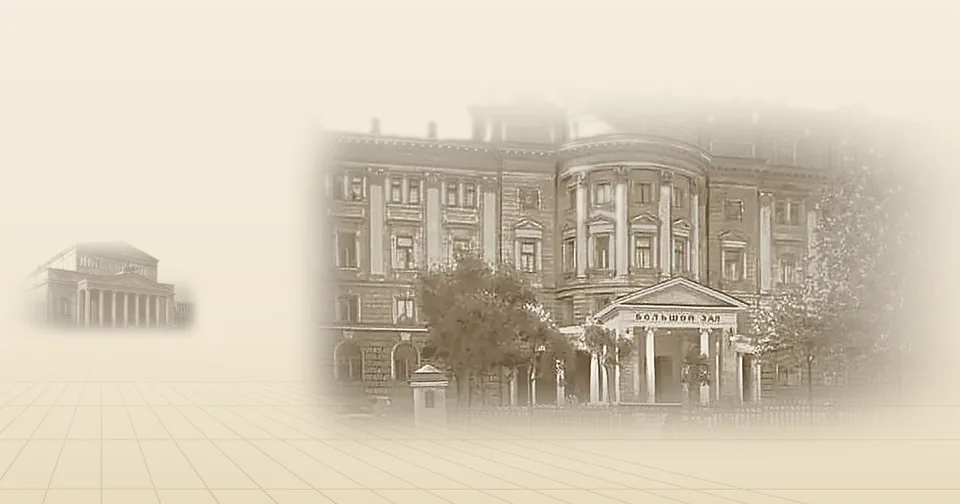
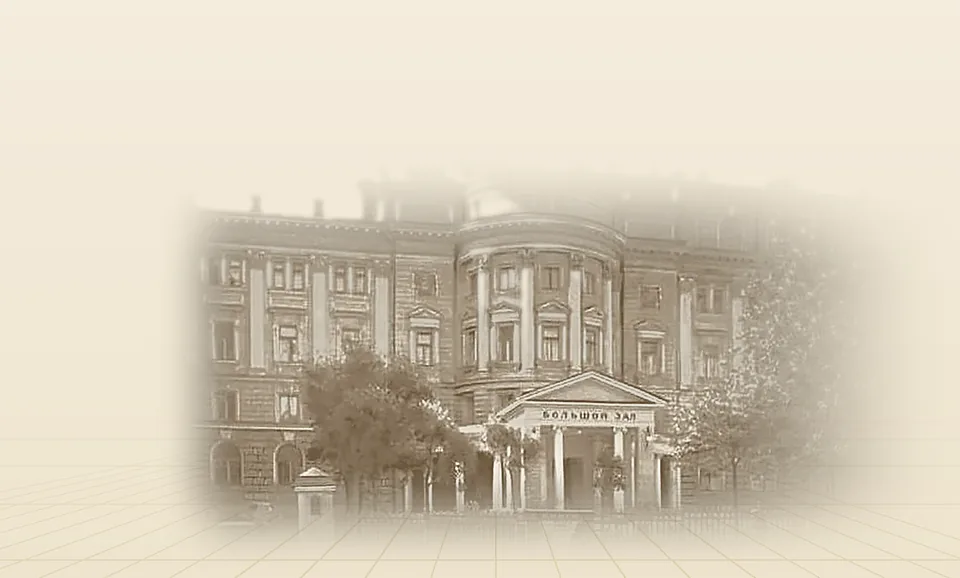
Шапка досье о Москве по макету владельца: оглавление, автограф 1903 года, консерватория справа внизу
- Оглавление досье 2×2 (Истоки и Большой театр, Эпоха Блажевича, Класс
  Щербинина, Гнесинская ветвь) со ссылками на главы; имена в подзаголовке
  тоже ведут к главам.
- Автограф Блажевича с подписанной фотографии 1903 года (вырезан из
  assets/blazhevich-1903.webp, фон прозрачный) — assets/autograph-1903.webp.
- Фон: кремовая бумага, плиты площади внизу, Большой зал консерватории
  крупно в правом нижнем углу; Большой театр из этой сцены убран.
- Шапка помещается в один экран на ноутбуке; на телефоне снимок полосой сверху.

Claude-Session: https://claude.ai/code/session_01KvyHv3yqw6H9Z57F4oExu8

diff --git a/src/ru/moscow.html b/src/ru/moscow.html
@@ -1,6 +1,6 @@
 <section id="moscow" class="block"><div class="wrap">
   <div class="staff" aria-hidden="true"></div>
-  <div class="section-head reveal"><h2>Московская тромбоновая школа</h2><div class="eyebrow">Досье · Борк → Блажевич → Щербинин</div><p>Подробное досье о преемственности московской школы: от первых тромбонистов Большого театра до учеников Щербинина и гнесинской ветви. Собрано 10 ноября 2026 года по открытым источникам и архивным описям. Знаком <span class="warn">⚠</span> отмечены расходящиеся или непроверенные сведения.</p></div>
+  <div class="section-head reveal"><h2>Московская тромбоновая школа</h2><div class="eyebrow">Досье · <a href="#m-bork">Борк</a> → <a href="#m-blazhevich">Блажевич</a> → <a href="#p-shcherbinin">Щербинин</a></div><p>Подробное досье о преемственности московской школы: от первых тромбонистов Большого театра до учеников Щербинина и гнесинской ветви. Собрано 10 ноября 2026 года по открытым источникам и архивным описям. Знаком <span class="warn">⚠</span> отмечены расходящиеся или непроверенные сведения.</p><nav class="dossier-toc" aria-label="Разделы досье"><ol><li><a href="#m-origins"><span>01.</span> Истоки и Большой театр</a></li><li><a href="#m-blazhevich"><span>02.</span> Эпоха В. М. Блажевича</a></li><li><a href="#p-shcherbinin"><span>03.</span> Класс В. А. Щербинина</a></li><li><a href="#p-gnesin"><span>04.</span> Гнесинская ветвь</a></li></ol></nav><figure class="autograph"><img src="assets/autograph-1903.webp" width="695" height="184" alt="Подпись В. М. Блажевича и дата: 1903 г."><figcaption>Автограф В. М. Блажевича, 1903 г.</figcaption></figure></div>
 
   <figure class="dossier-tree reveal" aria-labelledby="tree-title">
     <h3 id="tree-title">Генеалогия школы</h3>

diff --git a/src/style.css b/src/style.css
@@ -506,3 +506,21 @@ html:not(.js) .rail,html:not(.js) .fab{opacity:1;pointer-events:auto}
   .hero-lang{top:var(--s-3);right:var(--s-3)}
 }
 .hero-lang:hover{background:rgb(42 33 24/.35);color:#fff8e6;border-color:#f4ead2}
+
+/* ---------- Шапка досье о Москве по макету владельца (12.11.2026): оглавление 2×2, автограф 1903 года, консерватория справа внизу ---------- */
+.scene .eyebrow a{color:inherit;text-decoration:underline dashed;text-decoration-thickness:1px;text-underline-offset:.28em;text-decoration-color:var(--rule)}
+.scene .eyebrow a:hover{color:var(--ink)}
+.dossier-toc{order:4;display:block}
+.dossier-toc ol{list-style:none;margin:var(--s-4) 0 0;padding:0;display:grid;grid-template-columns:repeat(2,max-content);grid-template-rows:repeat(2,auto);grid-auto-flow:column;column-gap:var(--s-7)}
+.dossier-toc li{border-bottom:1px solid var(--line)}
+.dossier-toc a{display:block;padding:var(--s-3) 0;font:500 21px/1.25 var(--display);color:var(--ink);text-decoration:none}
+.dossier-toc a:hover{color:var(--accent)}
+.dossier-toc span{font-variant-numeric:lining-nums}
+.autograph{order:5;margin:auto 0 0;padding-top:var(--s-5);display:flex;align-items:flex-end;gap:var(--s-5);flex-wrap:wrap}
+.autograph img{width:min(330px,70vw);height:auto}
+.autograph figcaption{font:italic 500 15px/1.3 var(--display);color:var(--muted);padding-bottom:var(--s-2)}
+.section-head.scene{justify-content:flex-start}
+@media(max-width:1100px){.dossier-toc ol{max-width:none}}
+@media(max-width:620px){.dossier-toc ol{grid-template-columns:1fr;grid-template-rows:none;grid-auto-flow:row}.dossier-toc a{font-size:19px}}
+.section-head.scene-moscow{min-height:clamp(560px,calc(100svh - 110px),59.9vw);padding-bottom:var(--s-5)}
+@media(max-width:1100px){.section-head.scene-moscow{min-height:0}}

diff --git a/tools/scenes/moscow_scene.py b/tools/scenes/moscow_scene.py
@@ -1,51 +1,33 @@
-"""Сцена для шапки досье «Московская тромбоновая школа»: консерватория вблизи,
-Большой театр вдали, мощёная площадь в перспективе. Только Pillow; запускать вручную:
-    python3 tools/scenes/moscow_scene.py
-Результат: assets/scene-moscow.webp (+ -960 для телефонов)."""
+"""Фон шапки досье «Московская тромбоновая школа» (по макету владельца, 12.11.2026):
+кремовая бумага, едва заметные плиты площади внизу, Большой зал консерватории — крупно в правом нижнем углу.
+Только Pillow; запускать вручную:  python3 tools/scenes/moscow_scene.py  → assets/scene-moscow.webp (+ -960)."""
 from pathlib import Path
-from PIL import Image, ImageDraw, ImageFilter, ImageEnhance, ImageChops
+from PIL import Image, ImageDraw, ImageChops, ImageFilter
 A = Path(__file__).resolve().parents[2] / 'assets'
-W, H, HZ = 1920, 1150, 870            # холст и линия горизонта
-SKY_T, SKY_B, FLOOR_B = (247, 241, 228), (240, 230, 210), (232, 219, 192)
+W, H, HZ = 1920, 1150, 900
+TOP, BOT = (247, 241, 228), (238, 228, 206)
 
 def lerp(a, b, t): return tuple(round(x + (y - x) * t) for x, y in zip(a, b))
+img = Image.new('RGBA', (W, H)); d = ImageDraw.Draw(img)
+for y in range(H): d.line([(0, y), (W, y)], fill=lerp(TOP, BOT, y / H))
 
-img = Image.new('RGBA', (W, H))
-d = ImageDraw.Draw(img)
-for y in range(H):                     # небо и площадь
-    d.line([(0, y), (W, y)], fill=lerp(SKY_T, SKY_B, y / HZ) if y < HZ else lerp(SKY_B, FLOOR_B, (y - HZ) / (H - HZ)))
-
-# плиты площади: лучи к точке схода у Большого театра + поперечные швы
-VX = 470
+# плиты площади: лучи к точке схода за зданием и поперечные швы, проявляются к зрителю
+VX = 1300
 floor = Image.new('RGBA', (W, H), (0, 0, 0, 0)); fd = ImageDraw.Draw(floor)
-for i in range(-10, 13):
-    fd.line([(VX, HZ), (VX + i * 420, H + 900)], fill=(168, 132, 58, 80), width=2)
-y, step = HZ + 14, 9
+for i in range(-14, 10):
+    fd.line([(VX, HZ), (VX + i * 330, H + 700)], fill=(168, 132, 58, 60), width=2)
+y, step = HZ + 12, 8
 while y < H:
-    fd.line([(0, y), (W, y)], fill=(168, 132, 58, 55), width=2); step *= 1.45; y += step
-fade = Image.linear_gradient('L').resize((W, H - HZ))          # швы проявляются к зрителю
-m = Image.new('L', (W, H), 0); m.paste(fade, (0, HZ))
+    fd.line([(0, y), (W, y)], fill=(168, 132, 58, 50), width=2); step *= 1.45; y += step
+m = Image.new('L', (W, H), 0); m.paste(Image.linear_gradient('L').resize((W, H - HZ)), (0, HZ))
 floor.putalpha(ImageChops.multiply(floor.getchannel('A'), m))
 img = Image.alpha_composite(img, floor)
 
-def place(name, width, x, base, alpha=1.0, haze=0.0, sharpen=False):
-    global img
-    b = Image.open(A / name).convert('RGBA')
-    h = round(b.height * width / b.width)
-    b = b.resize((width, h), Image.LANCZOS)
-    if sharpen: b = b.filter(ImageFilter.UnsharpMask(radius=2, percent=90, threshold=2))
-    if haze:   # воздушная перспектива: светлее и мягче
-        rgb = Image.blend(b.convert('RGB'), Image.new('RGB', b.size, SKY_B), haze); rgb.putalpha(b.getchannel('A')); b = rgb
-    if alpha < 1: b.putalpha(b.getchannel('A').point(lambda v: round(v * alpha)))
-    layer = Image.new('RGBA', (W, H), (0, 0, 0, 0)); layer.paste(b, (x, base - h), b)
-    img = Image.alpha_composite(img, layer)
-
-# Большой театр — далеко, у точки схода
-place('bolshoi-1905.webp', 360, VX - 180, HZ + 18, alpha=.85, haze=.3)
-# Консерватория — близко, справа, крупно
-place('conservatory-1940s.webp', 1320, 760, H - 20, sharpen=True)
-
-img = img.convert('RGB')
+b = Image.open(A / 'conservatory-1940s.webp').convert('RGBA')
+w = 1150; h = round(b.height * w / b.width)
+b = b.resize((w, h), Image.LANCZOS).filter(ImageFilter.UnsharpMask(radius=1.6, percent=70, threshold=2))
+layer = Image.new('RGBA', (W, H), (0, 0, 0, 0)); layer.paste(b, (W - w + 60, H - h + 40), b)
+img = Image.alpha_composite(img, layer).convert('RGB')
 img.save(A / 'scene-moscow.webp', 'WEBP', quality=84, method=6)
-img.crop((300, 300, 1920, 1150)).resize((960, 504), Image.LANCZOS).save(A / 'scene-moscow-960.webp', 'WEBP', quality=82, method=6)
-print('ok', img.size)
+img.crop((640, 380, 1920, 1150)).resize((960, 578), Image.LANCZOS).save(A / 'scene-moscow-960.webp', 'WEBP', quality=82, method=6)
+print('ok')
